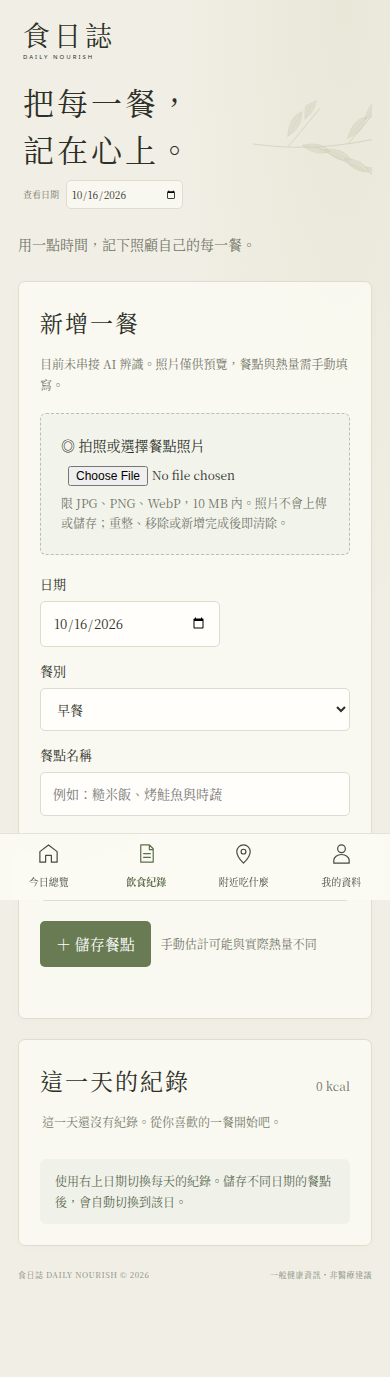
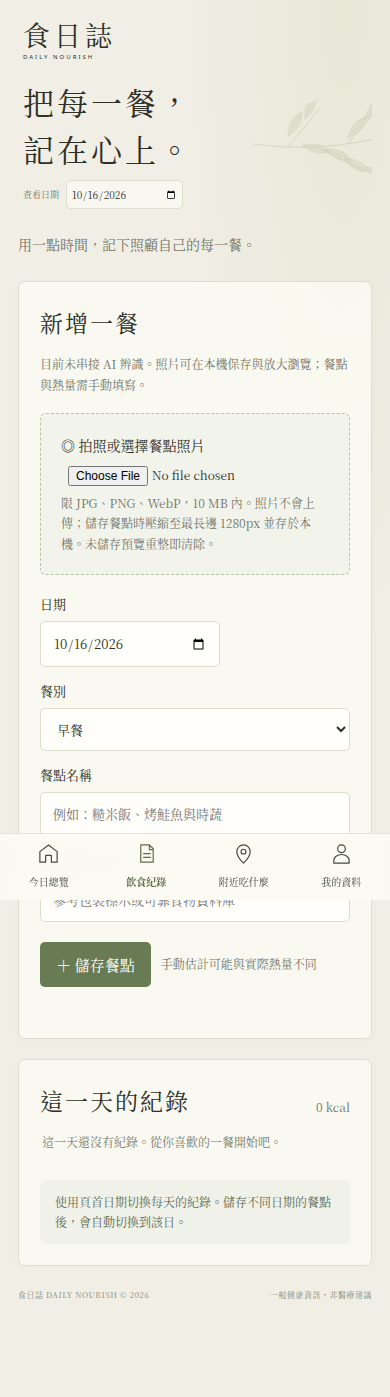
Add private compressed photo albums and mobile image viewer

diff --git a/index.html b/index.html
@@ -8,7 +8,7 @@
 <main><div class="mobile-brand">食日誌<small>DAILY NOURISH</small></div><header><div><div class="eyebrow">今天也為身體選擇更好的食物</div><h1 id="pageTitle">好好吃飯，<wbr>慢慢生活。</h1></div><label class="datebox">查看日期<input type="date" id="viewDate" required aria-label="查看日期"></label></header><div id="storageWarning" role="alert" hidden></div>
 <section id="today" aria-label="今日總覽">
 <div class="overview-grid"><article class="card energy-card"><div class="cardhead"><h2>今日熱量攝取</h2><button class="textbtn" data-page="profile">設定資料 ›</button></div><div class="energy"><div class="ring"><div><strong id="dailyTotal">0</strong><span id="energyCaption">已記錄 kcal</span></div></div><div class="stats"><div><span>基礎代謝</span><strong id="bmrSmall">—</strong><small>kcal</small></div><div><span>每日所需</span><strong id="tdeeSmall">—</strong><small>kcal</small></div></div></div><p class="energy-note"><span id="mealCount">0</span> 筆紀錄 · 僅計已填寫餐點；BMR / TDEE 為估計值</p></article>
-<article class="card capture-card"><svg class="camera-icon" viewBox="0 0 40 36" aria-hidden="true"><path d="M5 8h8l3-5h9l3 5h7v24H5z"/><circle cx="20" cy="20" r="8"/></svg><h2>拍下這一餐</h2><p>記錄飲食，讓每一餐都成為更好的選擇。</p><button id="startPhoto" data-page="diary">上傳飲食照片</button><small>僅本機預覽 · 餐點與熱量手動填寫</small></article></div>
+<article class="card capture-card"><svg class="camera-icon" viewBox="0 0 40 36" aria-hidden="true"><path d="M5 8h8l3-5h9l3 5h7v24H5z"/><circle cx="20" cy="20" r="8"/></svg><h2>拍下這一餐</h2><p>記錄飲食，讓每一餐都成為更好的選擇。</p><button id="startPhoto" data-page="diary">上傳飲食照片</button><small>本機照片相簿 · 餐點與熱量手動填寫</small></article></div>
 <div class="sectiontitle"><h2>飲食紀錄</h2><span class="rule"></span><button class="textbtn" data-page="diary">查看全部 ›</button></div><div id="summaryMeals"></div>
 <div class="inspiration-label">餐桌靈感 <span>AI 生成示意・不是你的飲食紀錄</span></div><div class="food-grid">
 <article class="food-card"><img src="assets/grain-bowl.webp" alt="AI 生成示意：藜麥、半熟蛋、酪梨與蔬菜碗" width="600" height="600"><div><h3>早餐靈感</h3><p>藜麥蔬菜碗 · 水煮蛋 · 酪梨</p></div></article>
@@ -17,10 +17,10 @@
 <article class="food-card extra-food"><img src="assets/oats.webp" alt="AI 生成示意：香蕉藍莓燕麥碗" width="600" height="600" loading="lazy"><div><h3>點心靈感</h3><p>燕麥 · 藍莓 · 香蕉與堅果</p></div></article></div>
 <div class="sectiontitle"><h2>附近吃什麼</h2><span class="rule"></span><button class="textbtn" data-page="nearby">探索附近 ›</button></div><div class="nearby-preview"><article class="nearby-choice"><span class="line-icon">⌖</span><div><h3>找一份清爽</h3><p>蔬菜、全穀與蛋白質，<br>找到喜歡的均衡搭配。</p><button class="textbtn" data-page="nearby">搜尋健康餐 ›</button></div></article><article class="nearby-choice"><span class="line-icon">♧</span><div><h3>吃一點日常</h3><p>家常便當、蔬食料理，<br>依你的位置慢慢找。</p><button class="textbtn" data-page="nearby">選擇地點與餐飲 ›</button></div></article><button class="mapart preview-map" data-page="nearby" aria-label="設定地點並搜尋真實餐廳"><span class="pin">⌖</span><small>示意地圖・非即時店家</small></button></div>
 <p class="overview-disclaimer">餐點圖片為 AI 生成靈感，不提供營養辨識；店家資訊請至 Google 地圖查詢。</p></section>
-<section id="diary" hidden aria-label="飲食紀錄"><p class="pageintro">用一點時間，記下照顧自己的每一餐。</p><div class="grid"><div class="card"><h2>新增一餐</h2><p class="small muted">目前未串接 AI 辨識。照片僅供預覽，餐點與熱量需手動填寫。</p><form id="mealForm"><div class="upload"><label for="photo">◎ 拍照或選擇餐點照片</label><input id="photo" type="file" accept="image/jpeg,image/png,image/webp" capture="environment"><img id="photoPreview" class="preview" alt="本次餐點照片預覽" hidden><button id="removePhoto" type="button" class="textbtn" hidden>移除照片</button><div class="small muted">限 JPG、PNG、WebP，10 MB 內。照片不會上傳或儲存；重整、移除或新增完成後即清除。</div><div id="photoError" class="alert" role="alert"></div></div><div class="fields"><label>日期<input type="date" id="mealDate" required></label><label>餐別<select id="mealType"><option>早餐</option><option>午餐</option><option>晚餐</option><option>點心</option></select></label><label class="full">餐點名稱<input id="mealName" maxlength="80" placeholder="例如：糙米飯、烤鮭魚與時蔬" required></label><label class="full">熱量估計（kcal）<input id="mealCalories" type="number" min="0" max="10000" step="1" placeholder="參考包裝標示或可靠食物資料庫" required></label></div><div class="formactions"><button type="submit">＋ 儲存餐點</button><span class="small muted">手動估計可能與實際熱量不同</span></div><div id="mealStatus" class="status" role="status"></div></form></div><div class="card"><div class="cardhead"><h2>這一天的紀錄</h2><span class="small muted" id="diaryTotal"></span></div><div id="diaryMeals"></div><div class="note" style="margin-top:20px">使用右上日期切換每天的紀錄。儲存不同日期的餐點後，會自動切換到該日。</div></div></div></section>
+<section id="diary" hidden aria-label="飲食紀錄"><p class="pageintro">用一點時間，記下照顧自己的每一餐。</p><div class="grid"><div class="card"><h2>新增一餐</h2><p class="small muted">目前未串接 AI 辨識。照片可在本機保存與放大瀏覽；餐點與熱量需手動填寫。</p><form id="mealForm"><div class="upload"><label for="photo">◎ 拍照或選擇餐點照片</label><input id="photo" type="file" accept="image/jpeg,image/png,image/webp" capture="environment"><img id="photoPreview" class="preview" alt="本次餐點照片預覽" hidden><button id="removePhoto" type="button" class="textbtn" hidden>移除照片</button><div class="small muted">限 JPG、PNG、WebP，10 MB 內。照片不會上傳；儲存餐點時壓縮至最長邊 1280px 並存於本機。未儲存預覽重整即清除。</div><div id="photoError" class="alert" role="alert"></div></div><div class="fields"><label>日期<input type="date" id="mealDate" required></label><label>餐別<select id="mealType"><option>早餐</option><option>午餐</option><option>晚餐</option><option>點心</option></select></label><label class="full">餐點名稱<input id="mealName" maxlength="80" placeholder="例如：糙米飯、烤鮭魚與時蔬" required></label><label class="full">熱量估計（kcal）<input id="mealCalories" type="number" min="0" max="10000" step="1" placeholder="參考包裝標示或可靠食物資料庫" required></label></div><div class="formactions"><button type="submit">＋ 儲存餐點</button><span class="small muted">手動估計可能與實際熱量不同</span></div><div id="mealStatus" class="status" role="status"></div></form></div><div class="card"><div class="cardhead"><h2>這一天的紀錄</h2><span class="small muted" id="diaryTotal"></span></div><div id="diaryMeals"></div><div class="note" style="margin-top:20px">使用頁首日期切換每天的紀錄。儲存不同日期的餐點後，會自動切換到該日。</div></div></div></section>
 <section id="nearby" hidden aria-label="附近吃什麼"><p class="pageintro">找一餐喜歡的，也為身體多想一點。</p><div class="grid"><div class="card"><div class="mapart" aria-hidden="true"><span class="pin">⌖</span><small>概念插畫・非即時地圖</small></div><h2>下一餐，從這裡找起。</h2><p class="small muted">本頁不提供即時店家或距離。設定條件後，前往 Google 地圖查看真實搜尋結果。</p><label class="field">想吃什麼<select id="foodType"><option value="健康餐">健康餐</option><option value="蔬食餐廳">蔬食</option><option value="自助餐">自助餐</option><option value="地中海料理">地中海料理</option><option value="便當">家常便當</option></select></label><label class="field" style="margin-top:16px">地點或區域<input id="locationText" maxlength="120" placeholder="例如：台北市大安區、台中車站"></label><div class="formactions"><button id="locate" type="button" class="secondary">⌖ 同意取得目前位置</button></div><div id="locationStatus" class="status" role="status">不會自動取得定位；也可直接輸入地點。</div><a id="mapLink" class="maplink" href="https://www.google.com/maps/search/?api=1&amp;query=%E5%81%A5%E5%BA%B7%E9%A4%90" target="_blank" rel="noopener noreferrer">前往 Google 地圖搜尋 ↗</a><p class="small muted" style="margin:14px 0 0">點擊搜尋會將地點文字或定位座標及餐飲種類傳送給 Google，適用其隱私政策。定位只用於本次搜尋，不寫入本機儲存。直接開啟 HTML 可能無法定位；正式使用需 HTTPS 與瀏覽器授權。</p></div><div class="card"><span class="eyebrow">EAT OUT, FEEL GOOD</span><h2>外食也有，剛好的選擇。</h2><ul class="checklist"><li>挑選有蔬菜、主食與蛋白質的組合。</li><li>醬汁分開放，自己決定喜歡的量。</li><li>在炸物之外，也試試蒸、烤或燉。</li><li>以水或無糖飲品搭配，慢慢享用。</li></ul><div class="note">店家菜單、營業時間與過敏原資訊，請向店家確認。搜尋結果不代表營養品質保證。</div></div></div></section>
-<section id="profile" hidden aria-label="我的資料"><p class="pageintro">認識身體的基本需要，不把自己縮成一個數字。</p><div class="grid"><div class="card"><h2>你的日常，專屬參考</h2><p class="small muted">適用 18–100 歲一般成人。孕哺期、運動員或有疾病等特殊需求者，請諮詢醫師或營養師。</p><form id="profileForm"><div class="fields"><label>年齡（歲）<input id="age" type="number" min="18" max="100" step="1" required placeholder="18–100"></label><label>公式使用的生理性別<select id="sex" required><option value="">請選擇</option><option value="male">男性（+5）</option><option value="female">女性（−161）</option></select></label><label>身高（cm）<input id="height" type="number" min="100" max="250" step="0.1" required placeholder="100–250"></label><label>體重（kg）<input id="weight" type="number" min="25" max="350" step="0.1" required placeholder="25–350"></label><label class="full">平時活動量<select id="activity"><option value="1.2">久坐為主，較少運動 × 1.2</option><option value="1.375">輕度活動，每週運動 1–3 天 × 1.375</option><option value="1.55">中度活動，每週運動 3–5 天 × 1.55</option><option value="1.725">高度活動，每週運動 6–7 天 × 1.725</option><option value="1.9">體力工作搭配高強度訓練 × 1.9</option></select></label></div><p class="small muted" style="margin:15px 0">此公式只有兩種性別常數，未必適合所有人的生理狀況；可與專業人員討論更合適的評估。</p><button type="submit">儲存並計算參考值</button><div id="profileStatus" class="status" role="status"></div></form><div id="profileResults" class="result" hidden><div><span class="small">基礎代謝 BMR</span><strong id="bmrResult"></strong><span class="small muted">kcal / 日</span></div><div><span class="small">每日總消耗 TDEE</span><strong id="tdeeResult"></strong><span class="small muted">kcal / 日</span></div></div></div><div class="card"><span class="eyebrow">UNDERSTAND, NOT RESTRICT</span><h2>兩個數字，不同的意思。</h2><h3>基礎代謝 BMR</h3><p class="muted small">身體在休息狀態維持基本生理功能所需的估計能量，不是每日建議攝取上限或減重目標。</p><h3>每日總消耗 TDEE</h3><p class="muted small">BMR 乘以活動係數，粗估整天的能量消耗，包含日常活動。個人實際需求會有差異。</p><div class="note">Mifflin–St Jeor 公式<br>BMR = 10 × 體重(kg) + 6.25 × 身高(cm) − 5 × 年齡 + 性別常數。<br>TDEE = BMR × 活動係數。</div><div class="privacy"><h3>你的資料，留在你的裝置。</h3><p>本網站不含追蹤、雲端帳號或後端服務。個人資料與餐點文字只存於此瀏覽器的 localStorage；照片僅暫時預覽。共用裝置的其他使用者可能看到資料。</p><p>不會跨裝置同步。無痕模式、清除瀏覽資料、換瀏覽器或移動 HTML 檔案，可能使資料無法保留。本機檔案儲存行為依瀏覽器而異。</p><button id="clearAll" type="button" class="danger">清除全部本機資料</button><div id="clearStatus" class="status" role="status"></div></div></div></div></section>
-<footer><span>食日誌 DAILY NOURISH © 2026</span><span>一般健康資訊・非醫療建議</span></footer></main>
+<section id="profile" hidden aria-label="我的資料"><p class="pageintro">認識身體的基本需要，不把自己縮成一個數字。</p><div class="grid"><div class="card"><h2>你的日常，專屬參考</h2><p class="small muted">適用 18–100 歲一般成人。孕哺期、運動員或有疾病等特殊需求者，請諮詢醫師或營養師。</p><form id="profileForm"><div class="fields"><label>年齡（歲）<input id="age" type="number" min="18" max="100" step="1" required placeholder="18–100"></label><label>公式使用的生理性別<select id="sex" required><option value="">請選擇</option><option value="male">男性（+5）</option><option value="female">女性（−161）</option></select></label><label>身高（cm）<input id="height" type="number" min="100" max="250" step="0.1" required placeholder="100–250"></label><label>體重（kg）<input id="weight" type="number" min="25" max="350" step="0.1" required placeholder="25–350"></label><label class="full">平時活動量<select id="activity"><option value="1.2">久坐為主，較少運動 × 1.2</option><option value="1.375">輕度活動，每週運動 1–3 天 × 1.375</option><option value="1.55">中度活動，每週運動 3–5 天 × 1.55</option><option value="1.725">高度活動，每週運動 6–7 天 × 1.725</option><option value="1.9">體力工作搭配高強度訓練 × 1.9</option></select></label></div><p class="small muted" style="margin:15px 0">此公式只有兩種性別常數，未必適合所有人的生理狀況；可與專業人員討論更合適的評估。</p><button type="submit">儲存並計算參考值</button><div id="profileStatus" class="status" role="status"></div></form><div id="profileResults" class="result" hidden><div><span class="small">基礎代謝 BMR</span><strong id="bmrResult"></strong><span class="small muted">kcal / 日</span></div><div><span class="small">每日總消耗 TDEE</span><strong id="tdeeResult"></strong><span class="small muted">kcal / 日</span></div></div></div><div class="card"><span class="eyebrow">UNDERSTAND, NOT RESTRICT</span><h2>兩個數字，不同的意思。</h2><h3>基礎代謝 BMR</h3><p class="muted small">身體在休息狀態維持基本生理功能所需的估計能量，不是每日建議攝取上限或減重目標。</p><h3>每日總消耗 TDEE</h3><p class="muted small">BMR 乘以活動係數，粗估整天的能量消耗，包含日常活動。個人實際需求會有差異。</p><div class="note">Mifflin–St Jeor 公式<br>BMR = 10 × 體重(kg) + 6.25 × 身高(cm) − 5 × 年齡 + 性別常數。<br>TDEE = BMR × 活動係數。</div><div class="privacy"><h3>你的資料，留在你的裝置。</h3><p>本網站不含追蹤、雲端帳號或後端服務。個人資料與餐點文字只存於此瀏覽器的 localStorage；照片壓縮後存於此瀏覽器 IndexedDB，可點開放大。共用裝置的其他使用者可能看到資料。</p><p>不會跨裝置同步。無痕模式、清除瀏覽資料、換瀏覽器或移動 HTML 檔案，可能使資料無法保留。本機檔案儲存行為依瀏覽器而異。</p><button id="clearAll" type="button" class="danger">清除全部本機資料</button><div id="clearStatus" class="status" role="status"></div></div></div></div></section>
+<footer><span>食日誌 DAILY NOURISH © 2026</span><span>一般健康資訊・非醫療建議</span></footer></main><dialog id="photoDialog" aria-label="照片瀏覽"><button id="closePhotoDialog" type="button" aria-label="關閉照片">關閉 ×</button><img id="largePhoto" alt="放大的餐點照片"><p id="photoCaption"></p></dialog>
 <script>
 'use strict';
 const $=id=>document.getElementById(id), KEY='daily-nourish-v1', types=['早餐','午餐','晚餐','點心'], activities=[1.2,1.375,1.55,1.725,1.9];
@@ -36,7 +36,7 @@ function calculate(p){const bmr=10*p.weight+6.25*p.height-5*p.age+(p.sex==='male
 function navigate(page){if(!['today','diary','nearby','profile'].includes(page))return;for(const id of ['today','diary','nearby','profile'])$(id).hidden=id!==page;document.querySelectorAll('nav button').forEach(b=>{b.classList.toggle('active',b.dataset.page===page);if(b.dataset.page===page)b.setAttribute('aria-current','page');else b.removeAttribute('aria-current')});$('pageTitle').innerHTML={today:'好好吃飯，<wbr>慢慢生活。',diary:'把每一餐，記在心上。',nearby:'好好吃，不必走太遠。',profile:'更認識，自己的需要。'}[page];window.scrollTo({top:0,behavior:'instant'})}
 document.querySelectorAll('[data-page]').forEach(b=>b.addEventListener('click',()=>navigate(b.dataset.page)));
 $('viewDate').value=today();$('mealDate').value=today();for(const id of ['viewDate','mealDate']){$(id).min='1900-01-01';$(id).max='2100-12-31'}
-function drawMeals(container,meals,deletable){container.replaceChildren();if(!meals.length){const e=document.createElement('div');e.className='empty';const s=document.createElement('span');s.className='sprout';s.textContent='';e.append(s,document.createTextNode('這一天還沒有紀錄。從你喜歡的一餐開始吧。'));container.append(e);return}meals.forEach(m=>{const row=document.createElement('div');row.className='meal';const icon=document.createElement('span');icon.className='mealicon';icon.textContent='◒';icon.setAttribute('aria-hidden','true');const body=document.createElement('div');body.className='mealbody';const title=document.createElement('strong');title.textContent=m.name;const detail=document.createElement('small');detail.textContent=m.type+' · '+m.date;body.append(title,detail);const kcal=document.createElement('span');kcal.className='kcal';kcal.textContent=m.calories+' kcal';row.append(icon,body,kcal);if(deletable){const b=document.createElement('button');b.type='button';b.textContent='刪除';b.setAttribute('aria-label','刪除餐點：'+m.name);b.onclick=()=>{if(confirm('刪除「'+m.name+'」這筆紀錄？')){state.meals=state.meals.filter(x=>x.id!==m.id);const saved=persist();render();$('mealStatus').textContent=saved?'已刪除餐點。':'已從本次暫存刪除，無法寫入本機。'}};row.append(b)}container.append(row)})}
+function drawMeals(container,meals,deletable){container.replaceChildren();if(!meals.length){const e=document.createElement('div');e.className='empty';const s=document.createElement('span');s.className='sprout';s.textContent='';e.append(s,document.createTextNode('這一天還沒有紀錄。從你喜歡的一餐開始吧。'));container.append(e);return}meals.forEach(m=>{const row=document.createElement('div');row.className='meal';const icon=document.createElement('span');icon.className='mealicon';icon.textContent='◒';icon.setAttribute('aria-hidden','true');const body=document.createElement('div');body.className='mealbody';const title=document.createElement('strong');title.textContent=m.name;const detail=document.createElement('small');detail.textContent=m.type+' · '+m.date;body.append(title,detail);const kcal=document.createElement('span');kcal.className='kcal';kcal.textContent=m.calories+' kcal';row.append(icon,body,kcal);if(m.hasPhoto){const photo=document.createElement('button');photo.type='button';photo.className='saved-photo';photo.dataset.mealPhoto=m.id;photo.setAttribute('aria-label','查看餐點照片：'+m.name);photo.textContent='載入照片';row.insertBefore(photo,body)}if(deletable){const b=document.createElement('button');b.type='button';b.textContent='刪除';b.setAttribute('aria-label','刪除餐點：'+m.name);b.onclick=async()=>{if(confirm('刪除「'+m.name+'」這筆紀錄？')){state.meals=state.meals.filter(x=>x.id!==m.id);const saved=persist();let photoDeleteFailed=false;try{await photoStore('readwrite','delete',m.id)}catch(e){photoDeleteFailed=true;storageWarn('紀錄已刪除，但無法清除本機照片。請在瀏覽器設定清除此網站資料。')}render();$('mealStatus').textContent=saved?'已刪除餐點。':'已從本次暫存刪除，無法寫入本機。'}};row.append(b)}container.append(row)})}
 function render(){const meals=state.meals.filter(m=>m.date===$('viewDate').value);const total=meals.reduce((s,m)=>s+m.calories,0);$('dailyTotal').textContent=total.toLocaleString();$('mealCount').textContent=meals.length;$('diaryTotal').textContent=total.toLocaleString()+' kcal';drawMeals($('summaryMeals'),meals,false);drawMeals($('diaryMeals'),meals,true);$('profileResults').hidden=!state.profile;if(state.profile){const n=calculate(state.profile);$('bmrResult').textContent=Math.round(n.bmr).toLocaleString();$('bmrSmall').textContent=Math.round(n.bmr).toLocaleString();$('tdeeResult').textContent=Math.round(n.tdee).toLocaleString();$('tdeeSmall').textContent=Math.round(n.tdee).toLocaleString()}else {$('tdeeSmall').textContent='—';$('bmrSmall').textContent='—'};const ratio=state.profile?Math.min(total/calculate(state.profile).tdee,1):0;document.querySelector('.ring').style.setProperty('--progress',Math.round(ratio*360)+'deg');$('energyCaption').textContent=state.profile?'/ '+Math.round(calculate(state.profile).tdee).toLocaleString()+' kcal':'已記錄 kcal'}
 $('viewDate').onchange=()=>{if(!validDate($('viewDate').value))$('viewDate').value=today();$('mealDate').value=$('viewDate').value;render()};
 function clearPhoto(){if(photoURL)URL.revokeObjectURL(photoURL);photoURL=null;$('photoPreview').removeAttribute('src');$('photoPreview').hidden=true;$('removePhoto').hidden=true;$('photo').value='';$('photoError').textContent=''}
@@ -47,6 +47,6 @@ $('profileForm').onsubmit=e=>{e.preventDefault();if(!$('profileForm').reportVali
 function mapUpdate(){const place=$('locationText').value.trim();const query=$('foodType').value+(place?' '+place:coords?' '+coords.latitude+','+coords.longitude:'');$('mapLink').href='https://www.google.com/maps/search/?api=1&query='+encodeURIComponent(query)}
 $('foodType').onchange=mapUpdate;$('locationText').oninput=()=>{geoRequest++;coords=null;$('locate').disabled=false;$('locationStatus').textContent='使用手動輸入的地點，不傳送定位座標。';mapUpdate()};
 $('locate').onclick=()=>{if(!navigator.geolocation){$('locationStatus').textContent='此瀏覽器不支援定位，請手動輸入地點。';return}const request=++geoRequest;$('locate').disabled=true;$('locationStatus').textContent='等待瀏覽器定位授權…';navigator.geolocation.getCurrentPosition(position=>{if(request!==geoRequest)return;coords={latitude:Number(position.coords.latitude.toFixed(5)),longitude:Number(position.coords.longitude.toFixed(5))};$('locationText').value='';$('locate').disabled=false;$('locationStatus').textContent='已取得目前位置；搜尋時會將座標傳送給 Google。輸入地點可取消使用定位。';mapUpdate()},()=>{if(request!==geoRequest)return;$('locate').disabled=false;$('locationStatus').textContent='未取得位置（可能未授權、逾時或檔案環境不支援）。請手動輸入地點；正式網站需 HTTPS。'},{enableHighAccuracy:false,timeout:10000,maximumAge:60000})};
-$('clearAll').onclick=()=>{if(!confirm('確定清除全部個人資料與所有日期的餐點？此操作無法復原。'))return;let removed=true;try{localStorage.removeItem(KEY);$('storageWarning').hidden=true}catch(e){removed=false;storageWarn('無法刪除瀏覽器儲存內容，舊資料可能仍存在。請在瀏覽器設定手動清除此網站資料。')}state={profile:null,meals:[]};$('profileForm').reset();$('mealForm').reset();$('viewDate').value=today();$('mealDate').value=today();$('profileStatus').textContent='';$('mealStatus').textContent='';clearPhoto();geoRequest++;coords=null;$('locationText').value='';$('locate').disabled=false;$('locationStatus').textContent='不會自動取得定位；也可直接輸入地點。';mapUpdate();render();$('clearStatus').textContent=removed?'全部本機資料已清除。':'本次暫存已清除；本機儲存刪除失敗，請查看提示。'};
+$('clearAll').onclick=async()=>{if(!confirm('確定清除全部個人資料與所有日期的餐點？此操作無法復原。'))return;let removed=true;try{localStorage.removeItem(KEY);$('storageWarning').hidden=true}catch(e){removed=false;storageWarn('無法刪除瀏覽器儲存內容，舊資料可能仍存在。請在瀏覽器設定手動清除此網站資料。')}try{await photoStore('readwrite','clear')}catch(e){removed=false;storageWarn('無法清除本機照片，請在瀏覽器設定手動清除此網站資料。')}state={profile:null,meals:[]};$('profileForm').reset();$('mealForm').reset();$('viewDate').value=today();$('mealDate').value=today();$('profileStatus').textContent='';$('mealStatus').textContent='';clearPhoto();geoRequest++;coords=null;$('locationText').value='';$('locate').disabled=false;$('locationStatus').textContent='不會自動取得定位；也可直接輸入地點。';mapUpdate();render();$('clearStatus').textContent=removed?'全部本機資料已清除。':'本次暫存已清除；本機儲存刪除失敗，請查看提示。'};
 render();mapUpdate();
-</script></body></html>
+</script><script src="photos.js"></script></body></html>

diff --git a/photos.js b/photos.js
@@ -1,0 +1,19 @@
+'use strict';
+// Native IndexedDB keeps binary photos out of localStorage. No network or API key.
+let photoDBPromise, pendingPhoto=null, photoBusy=false, photoEpoch=0, renderEpoch=0;
+const activePhotoURLs=new Set();
+function photoDB(){if(!photoDBPromise)photoDBPromise=new Promise((resolve,reject)=>{const r=indexedDB.open('daily-nourish-photos',1);r.onupgradeneeded=()=>r.result.createObjectStore('photos');r.onsuccess=()=>resolve(r.result);r.onerror=()=>reject(r.error);r.onblocked=()=>reject(Error('blocked'))});return photoDBPromise}
+async function photoStore(mode,action,key,value){const db=await photoDB();return new Promise((resolve,reject)=>{const tx=db.transaction('photos',mode),store=tx.objectStore('photos');let req;try{req=action==='put'?store.put(value,key):action==='clear'?store.clear():store[action](key)}catch(e){reject(e);return}let result;req.onsuccess=()=>result=req.result;tx.oncomplete=()=>resolve(result);tx.onerror=()=>reject(tx.error);tx.onabort=()=>reject(tx.error||Error('aborted'))})}
+function openPhoto(src,caption){const d=document.getElementById('photoDialog');document.getElementById('largePhoto').src=src;document.getElementById('photoCaption').textContent=caption;d.showModal()}
+function closePhoto(){document.getElementById('photoDialog').close();document.getElementById('largePhoto').removeAttribute('src')}
+async function compressPhoto(file){const bitmap=await createImageBitmap(file);try{if(bitmap.width*bitmap.height>40000000)throw Error('圖片解析度過大，請選擇 4000 萬像素以下照片');const scale=Math.min(1,1280/Math.max(bitmap.width,bitmap.height));const canvas=document.createElement('canvas');canvas.width=Math.max(1,Math.round(bitmap.width*scale));canvas.height=Math.max(1,Math.round(bitmap.height*scale));const ctx=canvas.getContext('2d');ctx.fillStyle='#fff';ctx.fillRect(0,0,canvas.width,canvas.height);ctx.drawImage(bitmap,0,0,canvas.width,canvas.height);const blob=await new Promise(resolve=>canvas.toBlob(resolve,'image/jpeg',.8));if(!blob||blob.size>2*1024*1024)throw Error('照片壓縮後仍過大，請改用較小圖片');return blob}finally{bitmap.close()}}
+const originalClearPhoto=clearPhoto;
+clearPhoto=function(){photoEpoch++;photoBusy=false;pendingPhoto=null;originalClearPhoto()};
+$('photo').onchange=async()=>{const file=$('photo').files[0];clearPhoto();if(!file)return;if(!['image/jpeg','image/png','image/webp'].includes(file.type)||file.size>10*1024*1024){$('photoError').textContent='請選擇 10 MB 內的 JPG、PNG 或 WebP 圖片。';return}const epoch=photoEpoch;photoBusy=true;$('photoError').textContent='正在裝置上壓縮照片…';try{const blob=await compressPhoto(file);if(epoch!==photoEpoch)return;pendingPhoto=blob;photoURL=URL.createObjectURL(blob);$('photoPreview').src=photoURL;$('photoPreview').hidden=false;$('removePhoto').hidden=false;$('photoError').textContent=''}catch(e){if(epoch===photoEpoch)$('photoError').textContent='無法處理照片，請改用較小的有效圖片。'}finally{if(epoch===photoEpoch)photoBusy=false}};
+$('removePhoto').onclick=()=>clearPhoto();
+const originalRender=render;
+render=function(){const epoch=++renderEpoch;closePhoto();for(const u of activePhotoURLs)URL.revokeObjectURL(u);activePhotoURLs.clear();originalRender();document.querySelectorAll('[data-meal-photo]').forEach(async button=>{try{const blob=await photoStore('readonly','get',button.dataset.mealPhoto);if(epoch!==renderEpoch||!button.isConnected)return;if(!blob){button.textContent='照片已遺失';button.disabled=true;return}const url=URL.createObjectURL(blob);activePhotoURLs.add(url);const img=document.createElement('img');img.src=url;img.alt='查看已儲存餐點照片';img.loading='lazy';button.replaceChildren(img);button.onclick=()=>openPhoto(url,'你的餐點照片・僅儲存於此瀏覽器')}catch(e){if(button.isConnected){button.textContent='無法讀取照片';button.disabled=true}}})};
+$('mealForm').onsubmit=async e=>{e.preventDefault();if(photoBusy){$('mealStatus').textContent='照片處理中，請稍候再儲存。';return}if(!$('mealForm').reportValidity())return;const m={id:Date.now().toString(36)+'-'+Math.random().toString(36).slice(2),date:$('mealDate').value,type:$('mealType').value,name:$('mealName').value.trim(),calories:Number($('mealCalories').value)};if(!validMeal(m)){$('mealStatus').textContent='請填寫有效日期、非空白餐點與 0–10,000 的整數熱量。';return}const submit=$('mealForm').querySelector('[type=submit]');submit.disabled=true;let photoFailed=false;try{if(pendingPhoto){try{await photoStore('readwrite','put',m.id,pendingPhoto);m.hasPhoto=true}catch(e){photoFailed=true}}state.meals.push(m);const saved=persist();if(!saved&&m.hasPhoto){try{await photoStore('readwrite','delete',m.id)}catch(e){}m.hasPhoto=false;photoFailed=true} $('viewDate').value=m.date;$('mealName').value='';$('mealCalories').value='';clearPhoto();render();$('mealStatus').textContent=(saved?'已儲存這一餐。':'僅本次暫存，餐點未能永久儲存。')+(photoFailed?'照片未儲存：本機空間不足或瀏覽器限制。請保留原始照片。':m.hasPhoto?'照片已壓縮並儲存於此瀏覽器。':'')}finally{submit.disabled=false}};
+document.querySelectorAll('.food-card img').forEach(img=>{const button=document.createElement('button');button.type='button';button.className='inspiration-photo';button.setAttribute('aria-label','放大'+img.alt);img.replaceWith(button);button.append(img);button.onclick=()=>openPhoto(img.src,img.alt+'・非你的飲食紀錄')});
+$('closePhotoDialog').onclick=closePhoto;$('photoDialog').onclick=e=>{if(e.target===$('photoDialog'))closePhoto()};$('photoDialog').addEventListener('close',()=>$('largePhoto').removeAttribute('src'));
+render();

diff --git a/art.css b/art.css
@@ -12,3 +12,5 @@ header{overflow:hidden}.overview-grid>*{min-width:0}@media(min-width:801px) and 
 
 nav b svg{width:23px;height:25px;stroke:currentColor;fill:none;stroke-width:1.25;stroke-linecap:round;stroke-linejoin:round}
 @media(max-width:420px){header{padding-right:0}header h1{max-width:240px;font-size:31px;word-break:keep-all;overflow-wrap:normal}header h1 wbr{display:block}header:after{right:-30px;width:130px;opacity:.35}}
+
+.inspiration-photo{display:block;padding:0;width:100%;border-radius:0;background:transparent}.inspiration-photo:hover{filter:none}.inspiration-photo:focus-visible{outline-offset:-4px}.saved-photo{width:64px;height:64px;flex-shrink:0;padding:0!important;border-radius:5px!important;overflow:hidden;font-size:10px!important}.saved-photo img{width:100%;height:100%;object-fit:cover}dialog{border:1px solid #d7dacb;border-radius:10px;background:#faf9f2;color:#303e30;max-width:min(94vw,900px);max-height:92dvh;padding:15px}dialog::backdrop{background:#20271bd9}#largePhoto{display:block;max-width:100%;max-height:72dvh;object-fit:contain;margin:12px auto}#closePhotoDialog{display:block;margin-left:auto;min-height:44px}#photoCaption{font-size:12px;margin:8px 0 0}body:has(dialog[open]){overflow:hidden}

diff --git a/TEST-RESULTS.md b/TEST-RESULTS.md
@@ -12,3 +12,6 @@ Chrome / Playwright 實際瀏覽器執行 test.cjs：PASS。
 截圖：screenshots/1440-{today,diary,nearby,profile}.png、screenshots/390-{today,diary,nearby,profile}.png。全頁截圖的固定底欄停留在當時視窗底部，屬瀏覽器 fullPage 捕捉行為。
 
 未測實體 GPS、相機、Safari/Firefox；未傳送真實位置給 Google。AI 圖片不代表真實使用者餐點。與原圖仍有茶杯背景、植物筆觸、餐廳照片及裝置字體差異，詳 README。
+
+## 手機照片追加測試
+test-photos.cjs：PASS。390px 示意圖放大與關閉、真實上傳流程的壓縮 JPEG IndexedDB 保存、重整後縮圖與大圖、Escape、刪除記錄同步刪照片、清空全部、模擬 quota 照片失敗提示均通過。測試照片以專案素材作為隔離 context 的輸入 fixture，沒有植入正式使用者紀錄。screenshots/390-photo-viewer.png 為此測試畫面。未實測實體手機相機、iOS 記憶體限制或 Safari。
